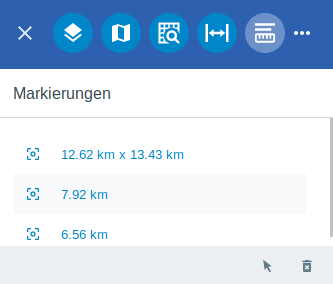
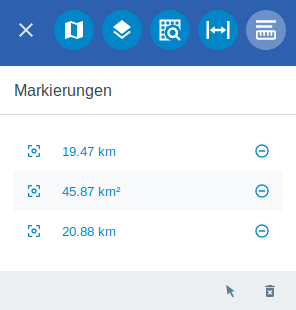
GWS docu update

diff --git a/doc/sphinx/books/client-user/de/toolbox/measure.rst b/doc/sphinx/books/client-user/de/toolbox/measure.rst
@@ -1,7 +1,7 @@
 Markieren & Messen
 ==================
 
-Nach dem aktivieren des |measure| ``Markieren & Messen``-Werkzeuges, stehen fünf verschiedene Werkzeuge zur Verfügung:
+Nach dem Aktivieren des |measure| ``Markieren & Messen``-Werkzeuges, stehen fünf verschiedene Werkzeuge zur Verfügung:
 
 **Punktmarkierung** |point|,
 **Distanz-** |distance|,
@@ -12,19 +12,18 @@ und **Kreisflächenmessung** |measurecircle|
 .. figure:: ../../../screenshots/de/client-user/marking_tool.png
   :align: center
 
-Die |point| **Punktmarkierung** dient lediglich dem Markierungszweck. Ein Messen ist heir nicht möglich. Aktivieren Sie das Werkzeug und klicken Sie mitr der linken Maustaste auf einen Punkt in der Karte. Dieser wird standardmäßig mit der X- und Y-Koordinate beschriftet. Sie können die Beschriftung beliebig anpassen, in dem sich automatisch öffnenden Beschriftungsfeld in der Menüleiste.
+Die |point| **Punktmarkierung** dient lediglich dem Markierungszweck. Ein Messen ist hier nicht möglich. Aktivieren Sie das Werkzeug und klicken Sie mit der linken Maustaste auf einen Punkt in der Karte. Dieser wird standardmäßig mit der X- und Y-Koordinate beschriftet. Sie können die Beschriftung beliebig anpassen, in dem sich automatisch öffnenden Beschriftungsfeld in der Menüleiste.
 
-Bei der |distance| **Distanzmessung** wird mit der linken Maustaste auf die Karte ein Startpunkt gesetzt und mit jedem weiteren Klick ein weiterer Punkt gesetzt. Mit einem Doppelklick wird der Endpunkt gesetzt und die Länge der Strecke angezeigt. Des weiteren kann man auch über die Symbole unten rechts bestätigen |savedraw|
-oder abbrechen |canceldraw|. Mit dem |delete| Symbol kann man die erstellte Linie wieder löschen und mit |back1| das Menü verlassen.
+Bei der |distance| **Distanzmessung** wird mit der linken Maustaste auf die Karte ein Startpunkt gesetzt und mit jedem weiteren Klick ein weiterer Punkt gesetzt. Mit einem Doppelklick wird der Endpunkt gesetzt und die Länge der Strecke angezeigt. Des Weiteren kann man auch über die Symbole unten rechts bestätigen |savedraw|
+oder abbrechen |canceldraw|. Mit |delete| kann man die erstellte Linie wieder löschen und mit |back1| das Menü verlassen.
 
-Für die |quadrat| **Rechtecksflächenmessung** müssen zwei Punkte gesetzt werden. Erzeugen Sie den ersten Punkt mit der linken Maustaste. Ziehen Sie nun das Rechteck über die gewünschte Fläche in der Karte. Durch ein weiteres Klicken mit der linken Maustaste wird das Rechteck festgestellt. Nun öffnet sich automatisch wieder das Fenster in der Menüleiste. Hier kann jetzt neben der X- und Y-Koordinate auch die Breite und Höhe des gezeichneten Rechtecks abgelsen werden. Diese Werte dienen hier zur standardmäßigen Beschriftung. Über das Beschriftungsfeld kann dieser Text nach belieben angepasst werden.
+Für die |quadrat| **Rechtecksflächenmessung** müssen zwei Punkte gesetzt werden. Erzeugen Sie den ersten Punkt mit der linken Maustaste. Ziehen Sie nun das Rechteck über die gewünschte Fläche in der Karte. Durch ein weiteres Klicken mit der linken Maustaste wird das Rechteck festgestellt. Nun öffnet sich automatisch wieder das Fenster in der Menüleiste. Hier kann jetzt neben der X- und Y-Koordinate auch die Breite und Höhe des gezeichneten Rechtecks abgelesen werden. Diese Werte dienen hier zur standardmäßigen Beschriftung. Über das Beschriftungsfeld kann dieser Text nach belieben angepasst werden.
 
 Bei der |polygon| **Polygonflächenmessung** kann durch das Setzen mehrerer Punkte ein Polygon gezeichnet werden. Starten Sie das Werkzeug und klicken Sie mit der linken Maustaste auf den Startpunkt. Jetzt können beliebig viele Punkte hinzugefügt werden, die das Polygon genauer zeichnen. Durch einen Doppelklick wird das Zeichnen beendet und das Polygon abgeschlossen. Die Beschriftung kann hier wieder über das dazugehörige Menüfenster geschehen. Falls nichts individuelles gewählt wird, wird das Polygon mit der Flächenanzahl in Quadratkilometern beschriftet.
 
 Bei einer |measurecircle| **Kreisflächenmessung** wird zuerst ein Punkt mit einem Klick in die Karte gesetzt, dies ist der Kreismittelpunkt. Mit einem zweiten Klick um den Kreis, wird der Radius festgelegt. Es wird nun ein Kreis gezeichnet, welcher mit dem Radius in Metern beschriftet wird. Der Radius kann noch nachträglich verändert werden, mit einem ziehen auf die äußere Linie oder über das Feld in dem sich geöffneten Menüfenster. Genauso wie die Beschriftung.
 
-Mit einem Klick auf das Symbol |back1| wird die Option Messen geschlossen, die Elemente bleiben dabei enthalten, außer sie wurden vorher gelöscht.
-|delete|
+Zu jedem Objekt stehen die bekannten Werkzeuge ``Hinzoomen`` und ``Räumliche Suche`` zur Verfügung. Per |delete| kann das jeweilige Objekt gelöscht werden.
 
 .. note::
  Wie bei anderen Werkzeugen auch kann dieses Werkzeug individuell angepasst werden. Die Platzierung kann verändert werden, sowie es ebenfalls möglich wäre, zum Beispiel nur die Flächenmessung zu aktivieren. Falls die Messungen lieber in Kilometer oder ähnlichem erstellt werden sollen, kann auch dies angepasst werden.

diff --git a/doc/sphinx/books/client-user/de/toolbox/searching.rst b/doc/sphinx/books/client-user/de/toolbox/searching.rst
@@ -1,14 +1,13 @@
 Räumliche Suche
 ===============
 
-Das |geo_search| ``Räumliche Suche``-Werkzeug ist ebenfalls in der Werkzeugleiste anwählbar. Es ermöglicht die Erstellung geometrischer Formen, mit Hilfe derer verschiedene Objekt ausgewählt werden können. So ist es zum Beispiel möglich Punkte, Linien, Kreise oder Polygone zu erstellen. Diese können beliebig auf der Karte verschoben werden, um so verschiedene Bereiche zu analysieren. Welche Objekte ausgewählt werden, definiert man unter dem Menüpunkt ``Layer``. Den nur die Objekte aus dem gewählten Layer werden selektiert.
+Das |geo_search| ``Räumliche Suche``-Werkzeug ist ebenfalls in der Werkzeugleiste anwählbar. Es ermöglicht die Erstellung geometrischer Formen, mit Hilfe derer verschiedene Objekt ausgewählt werden können. So ist es zum Beispiel möglich Punkte, Linien, Kreise oder Polygone zu erstellen. Diese können beliebig auf der Karte verschoben werden, um so verschiedene Bereiche zu selektieren. Welche Objekte ausgewählt werden, definiert man unter dem Menüpunkt ``Layer``. Den nur die Objekte aus dem gewählten Layer werden selektiert.
 
 .. figure:: ../../../screenshots/de/client-user/search.png
   :align: center
 
-Wenn man auf das |geo_search| Icon klickt öffnet sich das ``Räumliche Suche`` Werkzeug. Es ist ein Kreis zu sehen in dem sich 3 Symbole befinden. Über das |edit| Symbol ist es möglich, auszuwählen welche Geomtrie Sie gerne zeichen möchten. Es öffnet sich oben rechts eine Leiste, in der Sie zwischen den verschiedenen Geometrien wählen können. Wählen Sie Ihre gewünschte Geometrie und starten Sie durch ein Klicken mit der linken Maustaste auf den zu analysierenden Bereich der Karte. Mit einem Doppelklick der linken Maustaste beenden Sie Bearbeitung der Geometrie.
-Die gezeichnete Geometrie kann nach belieben verschoben werden. Klicken Sie dafür auf das |navi| Symbol und halten Sie Maustaste gerdrückt. Nun können Sie die Geometrie verschieben. Durch klicken
-auf das |cancel| Symbol wird das Werkzeug beendet.
+Über |geo_search| in der Werkzeugleiste öffnet sich das ``Räumliche Suche``-Werkzeug. Nun muss zuerst ausgewählt werden, welche Geometrie Sie gerne zeichnen möchten. Dies ist in der   sich oben rechts öffnenden Leiste möglich, in der Sie zwischen den verschiedenen Geometrien wählen können. Wählen Sie Ihre gewünschte Geometrie und starten Sie durch ein Klicken mit der linken Maustaste auf den zu selektierenden Bereich der Karte. Mit einem Doppelklick der linken Maustaste beenden Sie die Bearbeitung der Geometrie. Die gezeichnete Geometrie kann nach belieben verschoben werden. Klicken Sie dafür auf |navi| und halten Sie Maustaste gerdrückt. Nun können Sie die Geometrie verschieben. Durch klicken
+auf |cancel| wird das Werkzeug beendet.
 
 .. note::
  Die räumliche Suche kann auf Wunsch deaktiviert oder wo anders angeordnet werden. Einzelne Funktionen wie die Suche per Punkt, Linie, Rechteck, Fläche oder Kreis können seperat aktiviert oder deaktiviert werden.

diff --git a/doc/sphinx/books/client-user/de/sidebar/editing.rst b/doc/sphinx/books/client-user/de/sidebar/editing.rst
@@ -9,13 +9,13 @@ Unter diesem Menüpunkt ist es möglich, verschiedene Objekte auszuwählen und z
  :align: center
 
 
-Als nächstes muss das gewünschte Objekt ausgewählt werden. Es kann über das |fokus| Icon neben dem Objekt, fokussiert werden. Auch hier befinden sich wieder hilfreiche Werkzeuge am unteren Fensterrand. Über das Icon |cancel| ``Beenden`` können Sie zum vorherigen Fenster gelangen. Außerdem kann hier das Werkzeug ``Zeichnen`` |new_editing| oder das Werkzeug ``Bearbeiten`` |select_editing| angewählt werden. Mit dem ``Bearbeiten`` Werkzeug ist es möglich, die zu editieren gewünschten Objekte in der Karte auszuwählen. Das ``Zeichnen`` Werkzeug bietet noch weitere Möglichkeiten. Hier ist es möglich, je nachdem welcher Layertyp vorhanden ist, neue Punkte, Linien oder Polygone hinzuzufügen.
+Als nächstes muss das gewünschte Objekt ausgewählt werden. Es kann über |fokus| neben dem Objekt, fokussiert werden. Auch hier befinden sich wieder hilfreiche Werkzeuge am unteren Fensterrand. Über |cancel| ``Beenden`` können Sie zum vorherigen Fenster gelangen. Außerdem kann hier das Werkzeug ``Zeichnen`` |new_editing| oder das Werkzeug ``Bearbeiten`` |select_editing| angewählt werden. Mit dem ``Bearbeiten`` Werkzeug ist es möglich, die zu editieren gewünschten Objekte in der Karte auszuwählen. Das ``Zeichnen`` Werkzeug bietet noch weitere Möglichkeiten. Hier ist es möglich, je nachdem welcher Layertyp vorhanden ist, neue Punkte, Linien oder Polygone hinzuzufügen.
 
 .. figure:: ../../../screenshots/de/client-user/editing_2.png
  :align: center
 
 
-Wenn ein Objekt ausgewählt ist, können Attribute wie zum Beispiel id, Name, Bezeichnung und Adresse bearbeitet werden. Über das Menü |settings| ``Aufgaben`` können weitere Funktionen ausgewählt werden. Man kann zu einem Objekt ``Hinzoomen``.  Desweiteren können die vorher erstellten Objekte für die Funktionen ``Räumliche Suche``, ``Markieren und Messen`` oder ``Auswahl`` verwendet werden. Über das |delete_editing| Icon ist es möglich ein Objekt zu löschen und über das |cancel| Icon kommt man wieder ins vorherige Menü.
+Wenn ein Objekt ausgewählt ist, können Attribute wie zum Beispiel id, Name, Bezeichnung und Adresse bearbeitet werden. Über das Menü |settings| ``Aufgaben`` können weitere Funktionen ausgewählt werden. Man kann zu einem Objekt ``Hinzoomen``.  Desweiteren können die vorher erstellten Objekte für die Funktionen ``Räumliche Suche``, ``Markieren und Messen`` oder ``Auswahl`` verwendet werden. Über |delete_editing| ist es möglich ein Objekt zu löschen und über |cancel| kommt man wieder ins vorherige Menü.
 
 .. figure:: ../../../screenshots/de/client-user/editing_3.png
   :align: center

diff --git a/doc/sphinx/books/client-user/de/sidebar/map_element.rst b/doc/sphinx/books/client-user/de/sidebar/map_element.rst
@@ -7,12 +7,12 @@ In der Menüebene |layers| ``Layer`` werden die Karten des WebGIS Projekts angez
 .. figure:: ../../../screenshots/de/client-user/layer.png
   :align: center
 
-Layer können auch in Gruppen zusammengefasst werden. Diese werden über den Pfeil links neben dem Gruppennamen geöffnet |showother| und können über das Icon |hideother| wieder geschlossen werden.
-Das Anzeigen oder Ausblenden eines Layers erfolgt über einen Klick auf das Augen-Symbol. Erscheint neben dem Layer das |showlayer| Symbol ist dieser sichtbar, erscheint das Symbol |hidelayer| ist er nicht sichtbar.
+Layer können auch in Gruppen zusammengefasst werden. Diese werden über den Pfeil links neben dem Gruppennamen geöffnet |showother| und können über |hideother| wieder geschlossen werden.
+Das Anzeigen oder Ausblenden eines Layers erfolgt über einen Klick auf das Augen-Symbol. Erscheint neben dem Layer |showlayer| ist dieser sichtbar, erscheint |hidelayer| ist er nicht sichtbar.
 
 Es ist möglich ganze Layergruppen oder einzelne darin enthaltene Karten anzuzeigen oder ausblenden.
 
-Mit einem Klick auf den Layernamen, öffnet sich unterhalb ein kleines Fenster. Wenn vorhanden können hier die Legende des Layers, andere dazugehörige Metadaten oder auch Copyright Einträge angezeigt werden. Unter den Informationen befinden sich zwei Werkzeuge. Mit dem einen ist es möglich auf die Gesamtausdehnung des gewählten Layers zu zoomen |zoom_layer|. Mit dem anderen kann die Legende und die Metadaten über das |cancel| Icon geschlossen werden.
+Mit einem Klick auf den Layernamen, öffnet sich unterhalb ein kleines Fenster. Wenn vorhanden können hier die Legende des Layers, andere dazugehörige Metadaten oder auch Copyright Einträge angezeigt werden. Unter den Informationen befinden sich zwei Werkzeuge. Mit dem einen ist es möglich auf die Gesamtausdehnung des gewählten Layers zu zoomen |zoom_layer|. Mit dem anderen kann die Legende und die Metadaten über |cancel| geschlossen werden.
 
 .. note::
  Die Möglichkeiten zur Konfiguration von Karten im |layers| ``Layer``-Menü sind sehr umfangreich. Durch die Integration von QGIS in die GBD WebSuite kann z.B. die Layerstruktur aus einem oder mehreren QGIS Projekten mit anderen Datenquellen kombiniert, zusammengefasst oder übernommen werden. Im Zusammenspiel mit dem Rechtemanagement ist es zusätzlich möglich, dass verschiedene Nutzer unterschiedliche Layer und/oder andere Layerinhalte sehen.

diff --git a/doc/sphinx/books/client-user/de/toolbox/mouseover.rst b/doc/sphinx/books/client-user/de/toolbox/mouseover.rst
@@ -1,12 +1,12 @@
 Anzeigen
 ========
 
-Das |mouseover| ``Anzeigen``-Werkzeug ermöglicht es, die gleichen Informationen zu erhalten wie bei dem ``Abfragen``-Werkzeug. Jedoch ist die Bedienung unterschiedlich. Anstatt die Objekte separat anzuklicken, reicht es  wenn man den Mousecursor für eine kurze Zeit auf das gewünschte Objekt hält.
+Das |mouseover| ``Anzeigen``-Werkzeug ermöglicht es, die gleichen Informationen zu erhalten wie bei dem ``Abfragen``-Werkzeug. Jedoch ist die Bedienung unterschiedlich. Anstatt die Objekte einzeln anzuklicken, reicht es  wenn man den Mousecursor für eine kurze Zeit auf das gewünschte Objekt hält.
 
-Bestimmte Sachdaten können in der Karte abgefragt werden. Dies ist möglich über das |mouseover| Symbol. Ein Objekt wird markiert, sobald man den Mousecursor für länger als 1,5 Sekunden auf einem Objekt stehen lässt. Es öffnet sich ein kleines Fenster am unteren Bildschirmrand, wo verschiedene Informationen zu dem markierten Objekt angezeigt werden.
+Bestimmte Sachdaten können in der Karte abgefragt werden. Dies ist möglich über |mouseover|. Ein Objekt wird markiert, sobald man den Mousecursor für länger als 1,5 Sekunden auf einem Objekt stehen lässt. Es öffnet sich ein kleines Fenster am unteren Bildschirmrand, wo verschiedene Informationen zu dem markierten Objekt angezeigt werden.
 
 Wenn mehrere Objekte markiert wurden, kann man über die vor |continue| und zurück
-|back| Symbole die einzelnen Informationen anzeigen lassen. Des Weiteren kann man, über das |options| Icon, die Auswahl der Objekte auch auf andere Werkzeuge wie dem ``Auswählen``, ``Räumliche Suche`` und ``Annotieren`` Werkzeug übertragen, sowie über das ``Hinzoomen`` Werkzeug fokussiert werden. Über das Icon |cancel| ist es möglich die Information zu schließen.
+|back| Symbole die einzelnen Informationen anzeigen lassen. Des Weiteren kann man, über |options| die Auswahl der Objekte auch auf andere Werkzeuge wie dem ``Auswählen``, ``Räumliche Suche`` und ``Annotieren`` Werkzeug übertragen, sowie über das ``Hinzoomen``-Werkzeug fokussiert werden. Über |cancel| ist es möglich die Information zu schließen.
 
 .. note::
  Wie alle Werkzeuge kann auch dieses deaktiviert oder anders plaziert werden.

diff --git a/doc/sphinx/books/client-user/de/sidebar/select.rst b/doc/sphinx/books/client-user/de/sidebar/select.rst
@@ -6,11 +6,11 @@ Die Ebene |select| ``Auswahl`` in der Menüleiste |menu| ist ein Ablagebereich f
  .. figure:: ../../../screenshots/de/client-user/select.png
    :align: center
 
-Unter diesem Menüpunkt werden die Objekte aufgelistet, welche mit dem ``Auswählen``-Werkzeug ausgewählt wurden. So können Sie in diesem Menüpunkt eine Übersicht, über die von Ihnen ausgewählten Objekte, gewinnen. Diese Objekte können über das |delete| Icon aus der Auswahl entfernt werden oder über das |fokus| Icon fokusiert werden.
+Unter diesem Menüpunkt werden die Objekte aufgelistet, welche mit dem ``Auswählen``-Werkzeug ausgewählt wurden. So können Sie in diesem Menüpunkt eine Übersicht, über die von Ihnen ausgewählten Objekte, gewinnen. Diese Objekte können über das |delete| Icon aus der Auswahl entfernt werden oder über |fokus| fokusiert werden.
 
 Am unteren Fensterrand befinden sich erneut eine Reihe von Funktionen für speziell dieses Menü. Zum einen ist es möglich die Auswahl zu speichern |save|, eine zuvor abgespeicherte Auswahl erneut zu laden |load|, sowie die Auswahl zu löschen |delete_marking|.
 
-Wenn ein Objekt ausgewählt wird, erscheint am unteren Bildschirmrand ein Informationsfenster. In diesem Fenster sind verschiedene Informationen über dieses Objekt abzulesen. Außerdem können hier über das |settings| Symbol weitere Funktionen ausgewählt werden. Die Erklärung für die Funktionen ``Räumliche Suche`` und ``Annotieren`` entnehmen Sie bitte dem jeweiligen Punkt in dieser Hilfe. Über ``Auswahl`` kehren Sie wieder zum ursprünglichen ``Auswahl``-Werkzeug zurück. Über |fokus| ``Hinzoomen`` fokusieren Sie das gewünschte Objekt.
+Wenn ein Objekt ausgewählt wird, erscheint am unteren Bildschirmrand ein Informationsfenster. In diesem Fenster sind verschiedene Informationen über dieses Objekt abzulesen. Außerdem können hier über |settings| weitere Funktionen ausgewählt werden. Die Erklärung für die Funktionen ``Räumliche Suche`` und ``Annotieren`` entnehmen Sie bitte dem jeweiligen Punkt in dieser Hilfe. Über ``Auswahl`` kehren Sie wieder zum ursprünglichen ``Auswahl``-Werkzeug zurück. Über |fokus| ``Hinzoomen`` fokusieren Sie das gewünschte Objekt.
 
 
 

diff --git a/doc/sphinx/books/client-user/de/toolbox/dimensions.rst b/doc/sphinx/books/client-user/de/toolbox/dimensions.rst
@@ -1,12 +1,12 @@
 Bemaßung
 ========
 
-Das |dimensions| ``Bemaßung``-Werkzeug ermöglicht die Erfassung von Streckenlängen durch das Zeichen von Linien. Die gezeichneten Linien werden automatisch mit den Streckenlängen beschriftet. Wenn Sie das Tool aktiviert haben, öffnet sich, unter der Werkzeugleiste, eine Leiste mit verschiedenen Symbolen.
+Das |dimensions| ``Bemaßung``-Werkzeug ermöglicht die Erfassung von Streckenlängen durch das Zeichen von Linien. Die gezeichneten Linien werden automatisch mit den Streckenlängen beschriftet. Wenn Sie das Tool aktiviert haben, öffnet sich unter der Werkzeugleiste eine Leiste mit verschiedenen Symbolen.
 
 .. figure:: ../../../screenshots/de/client-user/dimensions_tool.png
   :align: center
 
-Über das |arrow| Icon können die gezeichneten Objekte verschoben und bearbeitet werden. Wenn man an den äußere Stützpunkten klickt kann diese verschieben wenn man auf den grünen Punkt in der Mitte klickt, kann die ganze Strecke verschobene werden. Über das |trash| Icon kann der Stützpunkt oder die gesamte Strecke gelöscht werden. Um ein Objekt zu zeichnen muss das |line| Icon ausgewählt werden. Bei dem Zeichnen einer Linie wird die Länge der einzelnen Strecken als Beschriftung angelegt. Das Tool schließen Sie über das |cancel| Icon.
+Über |arrow| können die gezeichneten Objekte verschoben und bearbeitet werden. Wenn man an den äußeren Stützpunkten klickt können diese verschoben werden. Wenn man auf den grünen Punkt in der Mitte der Strecke klickt, kann die ganze Strecke verschoben werden. Über |trash| kann der Stützpunkt oder die gesamte Strecke gelöscht werden. Um ein Objekt zu zeichnen ist dies über |line| möglich. Bei dem Zeichnen einer Linie wird die Länge der einzelnen Strecken als Beschriftung angelegt. Das Tool schließen Sie per |cancel|.
 
 .. figure:: ../../../screenshots/de/client-user/Bemassung_Beispiel_de.png
   :align: center

diff --git a/doc/sphinx/books/client-user/de/sidebar/cadastral_unit_searching.rst b/doc/sphinx/books/client-user/de/sidebar/cadastral_unit_searching.rst
@@ -1,7 +1,7 @@
 Flurstückssuche
 ===============
 
-In der Menüleiste |menu| findet man unter dem  |cadastralunit| Icon die ``Flurstückssuche``, welche auf amtlichen ALKIS-Daten beruht. Um einen Überblick zu erhalten, werden im folgenden Text die einzelnen Bestandteile genauer erläutert.
+In der Menüleiste |menu| findet man unter |cadastralunit| die ``Flurstückssuche``, welche auf amtlichen ALKIS-Daten beruht. Um einen Überblick zu erhalten, werden im folgenden Text die einzelnen Bestandteile genauer erläutert.
 
 Starten der Flurstückssuche
 ---------------------------
@@ -90,6 +90,23 @@ Die nachfolgende Tabelle bildet eine Übersicht der vorhandenen Schaltflächen u
 
 .. Wenn Sie ein einzelnes Objekt angewählt haben, gibt es zusätzlich Funktionen die nur dann möglich sind. Sie können zum einen wieder über das Icon |add| ein Objekt der Ablage hinzu zu fügen oder über das |delete| Icon, ein Objekt wieder aus der Ablage entfernen. Zusätzlich können die Informationen des Objektes gedruckt werden oder weitere Funktionen, ähnlich wie beim ``Auswahl``-Menü, gewählt werden. Die Erklärung für die Funktionen ``Räumliche Suche`` und ``Markieren und Messen`` entnehmen Sie bitte dem jeweiligen Punkt in dieser Hilfe. Über ``Auswahl`` kehren Sie wieder zum ursprünglichen ``Auswahl``-Werkzeug zurück. Über |fokus| ``Hinzoomen`` fokussieren Sie das gewünschte Objekt.
 
+Exportieren
+^^^^^^^^^^^
+ Exportieren als CSV
+
+ .. figure:: ../../../screenshots/de/client-user/cadastral_unit_searching_area_csv.png
+
+ Exportieren von Screenshot
+
+
+
+ Exportieren zum Drucken
+
+Save
+ .. figure:: ../../../screenshots/de/client-user/cadastral_unit_searching_area_search_print_save.png
+
+load
+ .. figure:: ../../../screenshots/de/client-user/cadastral_unit_searching_area_search_print_load.png
 
 Arbeiten mit der räumlichen Suche
 ---------------------------------

diff --git a/doc/sphinx/books/client-user/de/toolbox/print.rst b/doc/sphinx/books/client-user/de/toolbox/print.rst
@@ -2,20 +2,22 @@ Drucken
 =======
 
 
-Über das |print| ``Drucken``-Werkzeug auf der rechten Seite, wird eine PDF generiert, die sowohl gespeichert, als auch ausgedruckt werden kann.
+Über das |print| ``Drucken``-Werkzeug wird eine PDF generiert, die sowohl gespeichert, als auch ausgedruckt werden kann.
 
-Beim Aktivieren der Druckfunktion öffnet sich auf der Karte ein Kartenrahmen, der den Auswahlbereich symbolisiert. Dieser kann beliebig verschoben werden. Mit der linken Maustaste und dem Mausrad kann die entsprechende Zoomstufe eingestellt werde.
+Beim Aktivieren der Druckfunktion öffnet sich auf der Karte ein Kartenrahmen, der den zu druckenden Auswahlbereich symbolisiert. Dieser kann beliebig verschoben werden. Mit der linken Maustaste und dem Mausrad kann der entsprechende Ausschnitt und die Zoomstufe eingestellt werden.
 
 
  .. figure:: ../../../screenshots/de/client-user/print1.png
    :align: center
 
-Zusätzlich zu dem Kartenrahmen öffnet sich ein Dialog indem man die Druckauflösung und die Ausrichtung der Druckvorlage einstellen kann. Wird das Drucksymbol |print|
-noch einmal gedrückt, öffnet sich die PDF und über das Abbruch Symbol
-|cancel|, wird der ganze Vorgang geschlossen.
+Zusätzlich zu dem Kartenrahmen öffnet sich ein Dialog, indem man die Druckauflösung und die Ausrichtung der Druckvorlage einstellen kann. Wird das Drucksymbol |print|
+noch einmal gedrückt, öffnet sich die PDF und per |cancel| wird der ganze Vorgang geschlossen.
 
 .. note::
- Falls nicht benötigt, kann auch dieses Werkzeug deaktiviert oder anders palziert werden.
+ Beachten Sie dass gedrehte Karten weder gedruckt weden können, noch ein Screenshot von gemacht werden kann.
+
+ .. figure:: ../../../screenshots/de/client-user/print_2.png
+   :align: center
 
 
  .. |print| image:: ../../../images/baseline-print-24px.svg

diff --git a/doc/sphinx/books/client-user/de/sidebar/marking.rst b/doc/sphinx/books/client-user/de/sidebar/marking.rst
@@ -1,7 +1,7 @@
 Markierungen
 ============
 
-Über die Menüleiste |menu| gelangt man zu dem Menüpunkt |marking| ``Markierungen``. Die Objekte, die man mit Hilfe des ``Markieren und Messen``-Werkzeuges erzeugt hat, werden hier aufgelistet. Über das |delete| Icon können Sie das gezeichnete Objekt direkt löschen oder über das |fokus| Icon zu dem gezeichneten Objekt hineinzoomen.
+Über die Menüleiste |menu| gelangt man zu dem Menüpunkt |marking| ``Markierungen``. Die Objekte, die man mit Hilfe des ``Markieren und Messen``-Werkzeuges erzeugt hat, werden hier aufgelistet. Über |fokus| kann man zu dem gezeichneten Objekt hineinzoomen, über |delete| können Sie das gezeichnete Objekt direkt löschen.
 
 .. figure:: ../../../screenshots/de/client-user/marking.png
   :align: center
@@ -11,8 +11,11 @@ Wenn ein Objekt neu gezeichnet oder im Menü ``Markierungen`` ausgewählt wurde,
 .. figure:: ../../../screenshots/de/client-user/marking_2.png
   :align: center
 
+.. note::
+  Die Beschriftung in der Markierung ändert sich automatisch von Meter in Kilometer, wenn die Linie/Fläche lang/groß genug ist. 
+
 Mit Hilfe des Werkzeuges |select_marking| ``Bearbeiten`` können erstellte Markierungen in der Karte angewählt und danach bearbeitet werden.
-Zuletzt ist es möglich, über das Werkzeug |delete_marking| ``Alle löschen`` die Markierung der Objekte aufzuheben.
+Über das Werkzeug |delete_marking| ``Alle löschen`` ist es möglich die Markierung der Objekte aufzuheben.
 
 .. note::
  All diese Funktionen können auf Wunsch auch deaktiviert oder nur gewissen Nutzern zur Verfügung gestellt werden.

diff --git a/doc/sphinx/books/client-user/de/toolbox/object_identification.rst b/doc/sphinx/books/client-user/de/toolbox/object_identification.rst
@@ -4,10 +4,10 @@ Abfragen
 Bestimmte Sachdaten können in der Karte abgefragt werden. Dies ist möglich über das |info| ``Abfragen``-Werkzeug. Ein Objekt in der Karte wird mit der linken Maustaste angewählt. Das gewählte Objekt wird markiert und es öffnet sich ein kleines Fenster am unteren Bildschrimrand, wo verschiedene Informationen zu dem markierten Objekt angezeigt werden.
 
 Wenn mehrere Objekte markiert wurden, kann man über die vor |continue| und zurück
-|back| Symbole die einzelnen Informationen anzeigen lassen. Des Weiteren kann man, über das |options| Icon, die Auswahl der Objekte auch auf andere Werkzeuge wie dem ``Auswählen``, ``Räumliche Suche`` und ``Annotieren`` Werkzeug übertragen, sowie über das ``Hinzoomen`` Werkzeug fokussiert werden. Über das Icon |cancel| ist es möglich die Information zu schließen.
+|back| Symbole die einzelnen Informationen anzeigen lassen. Des Weiteren kann man über |options| die Auswahl der Objekte auch auf andere Werkzeuge, wie dem ``Auswählen``, ``Räumliche Suche`` und ``Annotieren`` Werkzeug übertragen. Zusätzlich ist es möglich über das ``Hinzoomen``-Werkzeug die einzelnen Objekte zu fokussieren. Über |cancel| ist es möglich die Information zu schließen.
 
 .. note::
- Wie alle Werkzeuge kann auch dieses deaktiviert oder anders plaziert werden. 
+ Wie alle Werkzeuge kann auch dieses deaktiviert oder anders plaziert werden.
 
 
 

diff --git a/doc/sphinx/books/client-user/de/toolbox/screenshot.rst b/doc/sphinx/books/client-user/de/toolbox/screenshot.rst
@@ -1,10 +1,13 @@
 Screenshot
 ==========
 
-Bei Aktivierung des |screenshot| ``Screenshot``-Werkzeuges öffnet sich ein Rechteck auf der Karte. Dieses kann frei navigiert werden. Wenn man den gewünschten Ausschnitt gefunden hat, muss nur noch der DPI Wert eingestellt werden. Sie sollten am besten was zwischen 70 und 300 DPI auswählen um eine gut anschauliche Auflösung zu erhalten. Klicken Sie anschließend wieder auf das |screenshot| Icon um den Screenshot zu speichern. Alternativ können Sie über das |cancel| Icon abbrechen.
+Bei Aktivierung des |screenshot| ``Screenshot``-Werkzeuges öffnet sich ein Rechteck auf der Karte. Dieses kann frei navigiert werden. Wenn man den gewünschten Ausschnitt gefunden hat, muss nur noch der DPI Wert eingestellt werden. Sie sollten am besten einen Wert zwischen 70 und 300 DPI auswählen um eine gute Auflösung zu erhalten. Klicken Sie anschließend wieder auf |screenshot| um den Screenshot zu speichern. Alternativ können Sie über |cancel| abbrechen.
+
+.. figure:: ../../../screenshots/de/client-user/screenshot.png
+  :align: center
 
 .. note::
- Alle bisher erwähnten Anpassungsmöglichkeiten können natürlich auch mit dem ``Screenshot``-Werkzeug durchgeführt werden.
+ Beachten Sie dass gedrehte Karten weder gedruckt weden können, noch ein Screenshot von gemacht werden kann.
 
 
  .. |screenshot| image:: ../../../images/outline-insert_photo-24px.svg
